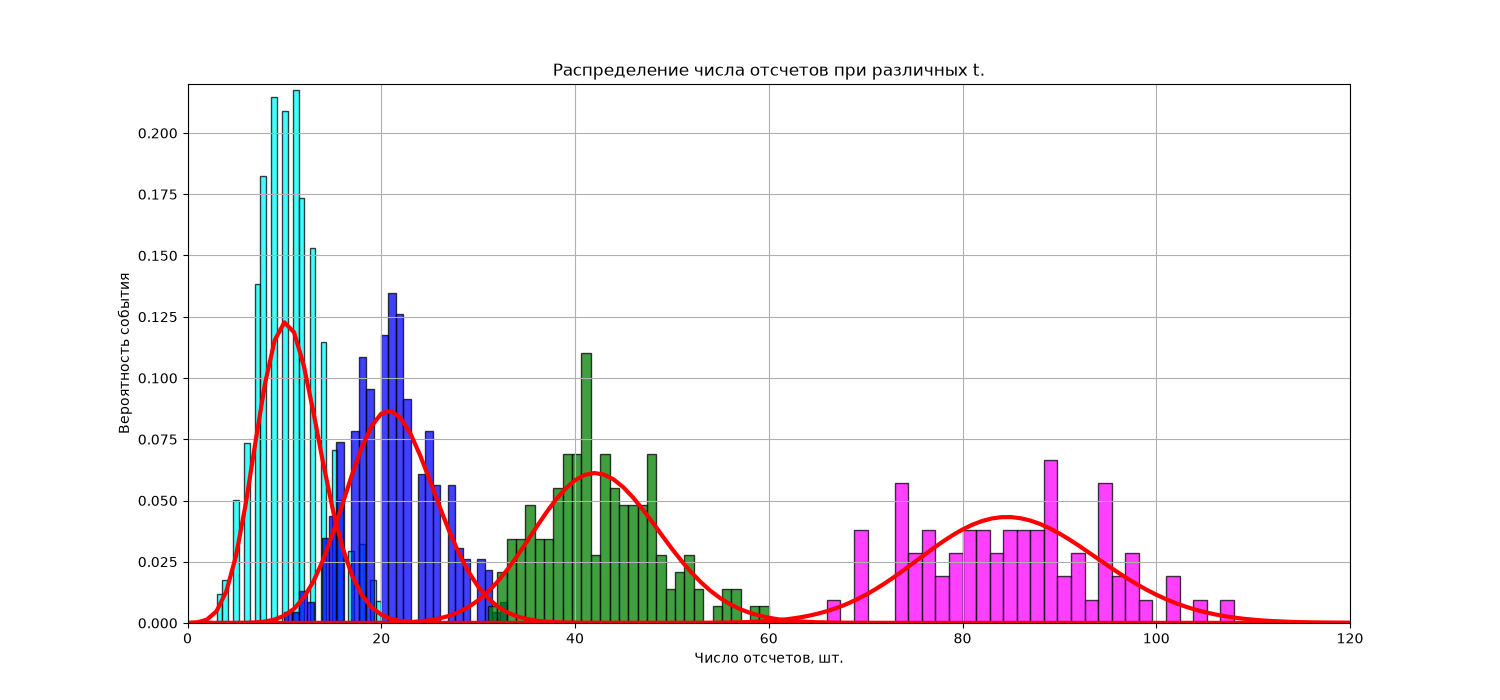
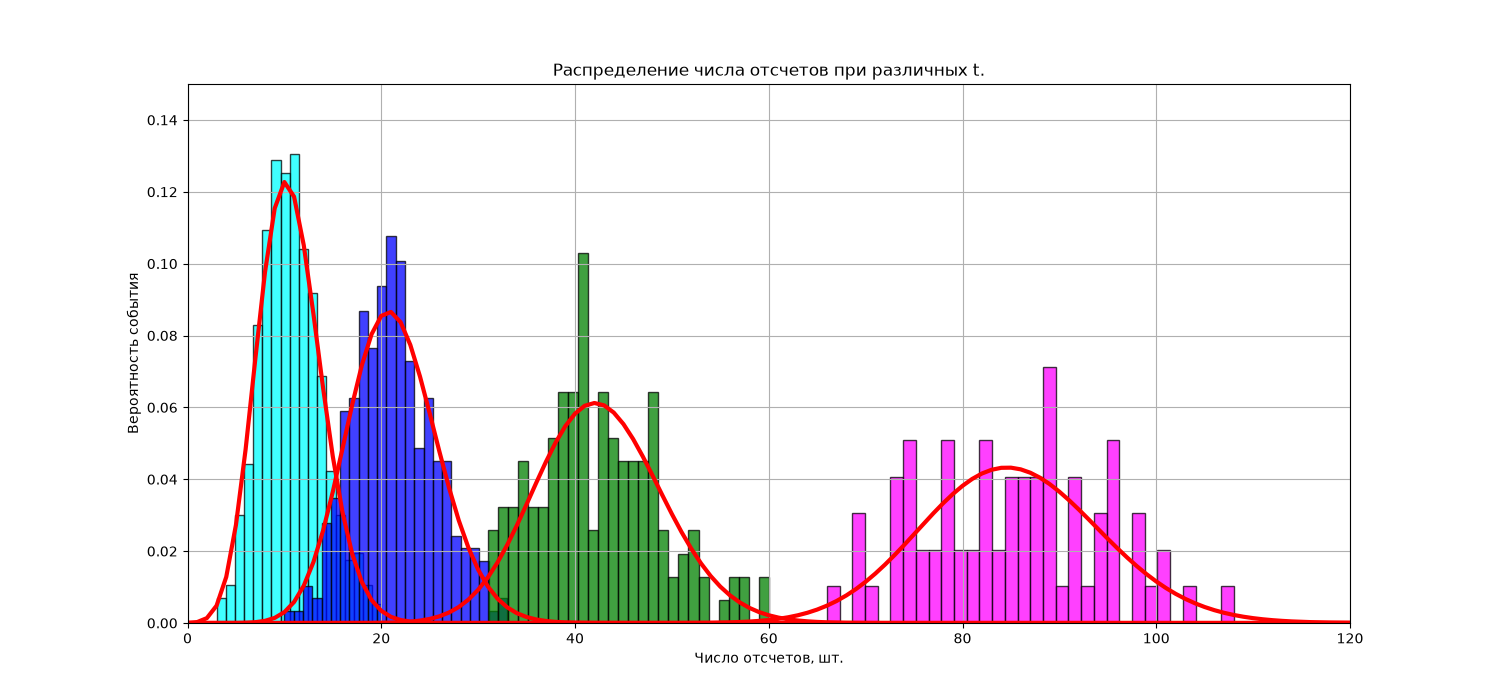
Лаба 1.1.4

diff --git a/Лабы, Рисовашки/Лаба 1.1.4/lab114.py b/Лабы, Рисовашки/Лаба 1.1.4/lab114.py
@@ -51,12 +51,15 @@ def Gauss(r, srn, sign):
     return(wn)
 
 #4 графика на одном листе
-sizes = np.array([[0.25, 0.14], [0.12, 0.07]])
-fig, axes = plt.subplots(nrows = 2, ncols = 2, figsize=(8, 8))
+sizes = np.array([[0.14, 0.12], [0.12, 0.08]])
+
+fig, axes = plt.subplots(nrows = 2, ncols = 2, figsize=(14, 8))
 plt.subplots_adjust(wspace=0.5, hspace=0.5)
 for i in range(2):
     for j in range(2):
         l80 = hoba(t[i][j])
+        luniq = set(l80)
+        s = len(luniq)
         sr80 = np.sum(l80)/len(l80)
         int80 = sr80/t[i][j]
         sig80, sint80 = sigma(l80, sr80, t[i][j]) 
@@ -68,14 +71,16 @@ for i in range(2):
         print("Средняя интенсивность:", int80)
         print("Среднее отклонение (погрешность) интенсивности:", round(sint80, 4))
         print()
+
+        
      
 
-        n, bins, patches = axes[i, j].hist(l80, 30, density=True, facecolor='blue', edgecolor='black', alpha=0.75)
-        axes[i, j].plot([i for i in range(200)], PuasSr([i for i in range(200)], sr80), color='red', linewidth=2, linestyle = '-')
-        axes[i, j].plot([i for i in range(200)], PuasDes([i for i in range(200)], sig80), color='magenta', linewidth=2, linestyle = '--')
-        axes[i, j].plot([i for i in range(200)], Gauss([i for i in range(200)], sr80, sig80), color='cyan', linewidth=3, linestyle = ':')
+        n, bins, patches = axes[i, j].hist(l80, s, density=True, facecolor='blue', edgecolor='black', alpha=0.75)
+        axes[i, j].plot([i for i in range(130)], PuasSr([i for i in range(130)], sr80), color='red', linewidth=2, linestyle = '-')
+        axes[i, j].plot([i for i in range(130)], PuasDes([i for i in range(130)], sig80), color='magenta', linewidth=2, linestyle = '--')
+        axes[i, j].plot([i for i in range(130)], Gauss([i for i in range(130)], sr80, sig80), color='cyan', linewidth=3, linestyle = ':')
         axes[i, j].grid(True)
-        axes[i, j].axis([np.min(l80)-10, np.max(l80)+10, 0, sizes[i][j] ])
+        axes[i, j].axis([np.min(l80)-5, np.max(l80)+3, 0, sizes[i][j] ])
         axes[i, j].set_xlabel('Число отсчетов, шт.')
         axes[i, j].set_ylabel('Вероятность события')
         axes[i, j].set_title(f'Распределение числа отсчетов при \n t = {t[i][j]} секунд.')
@@ -89,15 +94,16 @@ for i in range(2):
     for j in range(2):
         l80 = hoba(t[i][j])
         sr80 = np.sum(l80)/len(l80)
+        luniq = set(l80)
+        s = len(luniq)
 
-        n, bins, patches = plt.hist(l80, 30, density=True, facecolor=colors[i][j], edgecolor='black', alpha=0.75)
+        n, bins, patches = plt.hist(l80, s, density=True, facecolor=colors[i][j], edgecolor='black', alpha=0.75)
         plt.plot([i for i in range(130)], PuasSr([i for i in range(130)], sr80), color='red', linewidth=3)
         plt.xlabel('Число отсчетов, шт.')
         plt.ylabel('Вероятность события')
         plt.title('Распределение числа отсчетов при различных t.')
         plt.grid(True)
-        plt.axis([0, 120, 0, 0.22])
-
+        plt.axis([0, 120, 0, 0.15])
 
 plt.show()
 
